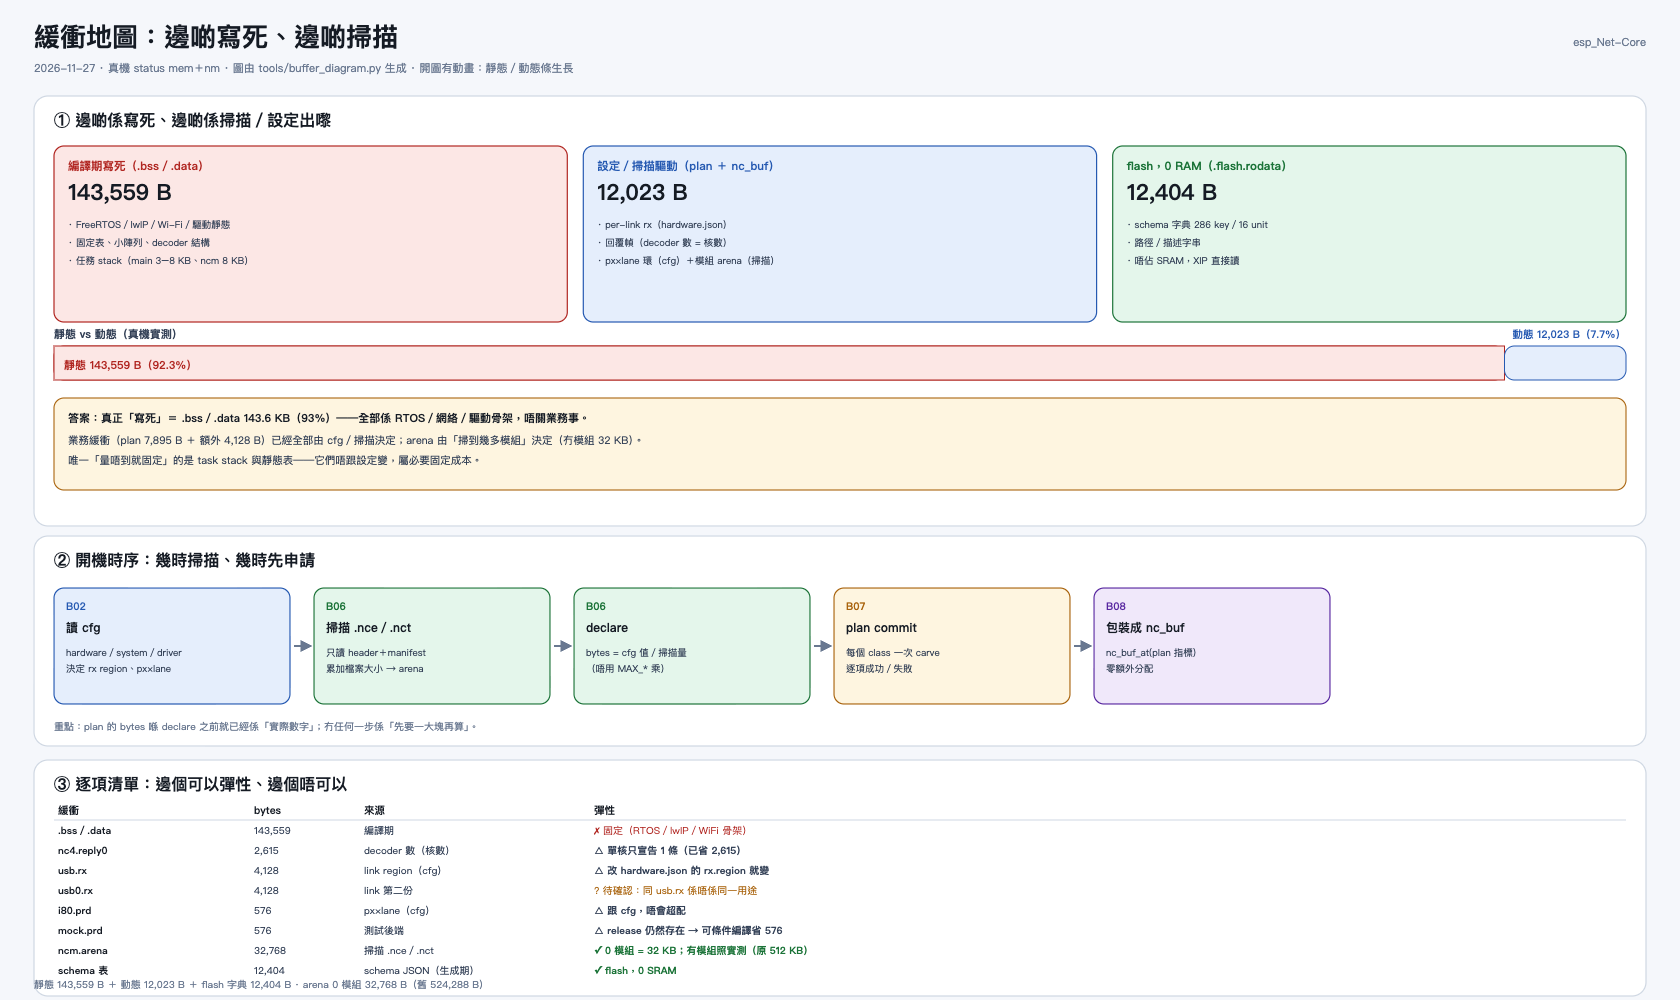
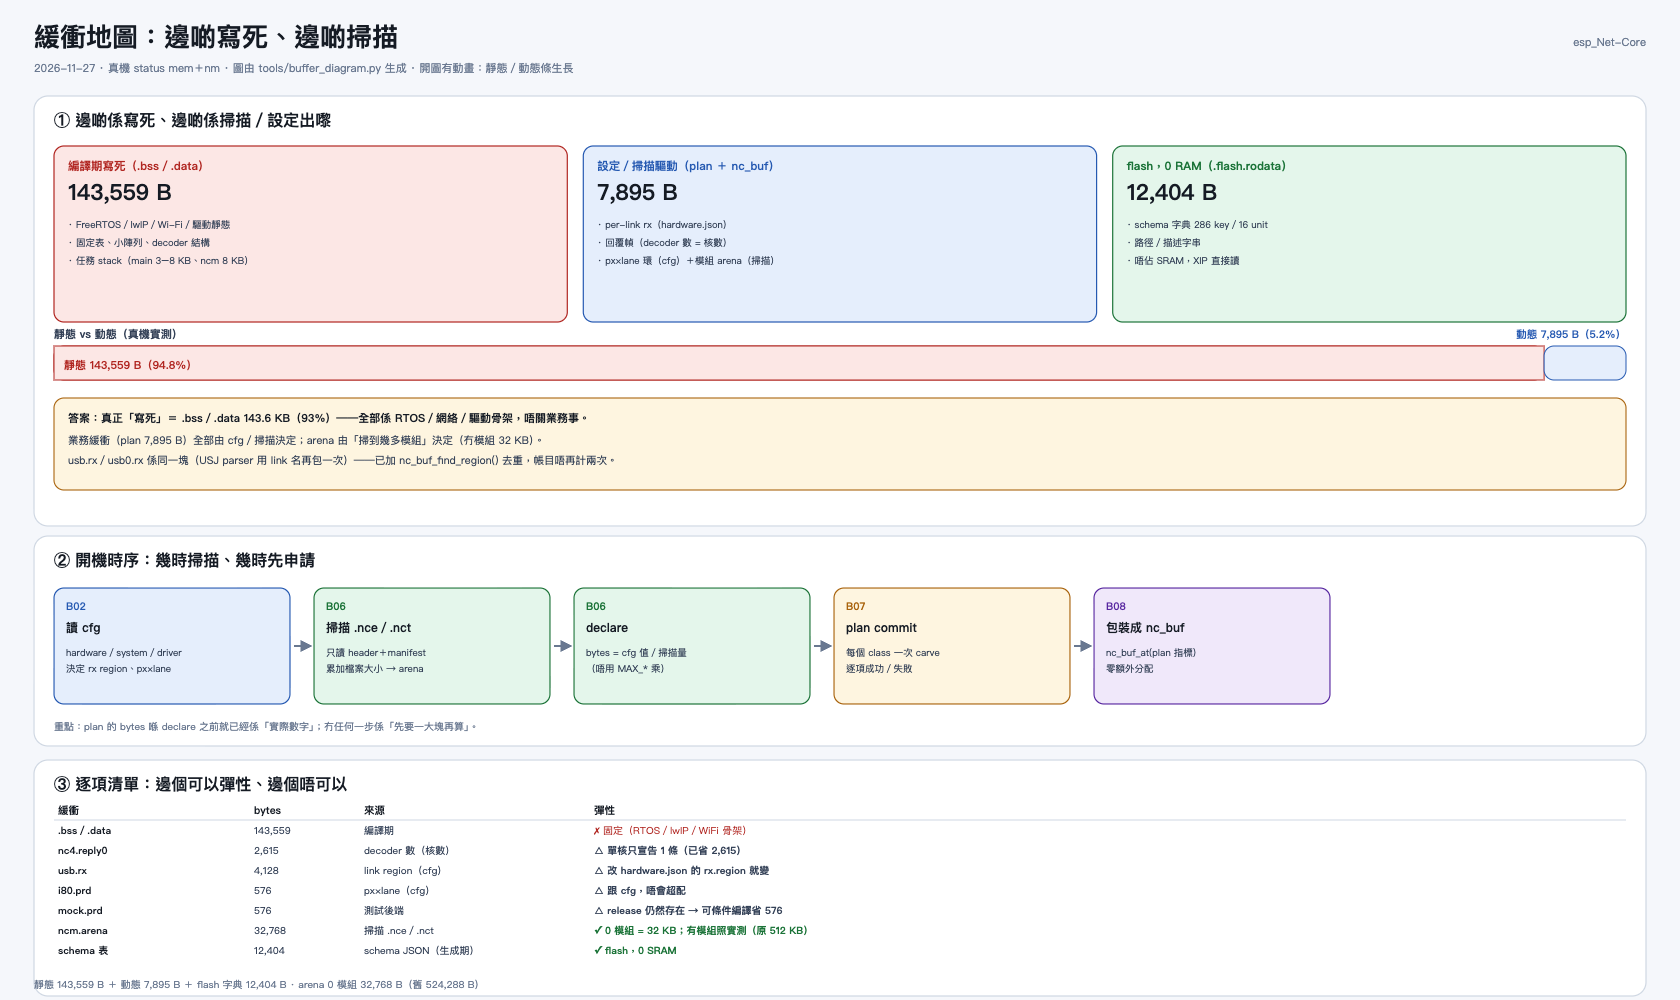
fix(mem): usb.rx／usb0.rx 係同一塊記憶體——去重登記，動態總量修正為 7,895 B
用家質疑「usb.rx 同 usb0.rx 各 4,128 B」是否真係兩份，要求追查（可能只係登記問題，
亦可能係為 P4 多介面預留）。

追蹤結果：
- plan "usb.rx"（slot=region, n=1, STREAM）→ task manager nc_buf_at("usb.rx", plan 指標)
- USJ bus：nc4_parser_create_in(s_nc4_rx_region, …) → nc_buf_at("<link>.rx"="usb0.rx",
  同一個 region) —— 兩個 wrapper 指向同一指標，**唔係兩份記憶體**。
- OTG（CDC）走 rx_buf → create_buf 沿用 usb.rx，所以只有 USJ 會重複登記。
- 亦唔係 P4 多介面預留：rx_region 係每條 link 一個，多介面會有多條獨立 link。

修正：新增 nc_buf_find_region(region, bytes)；nc4_parser_create_in() 先找既有 wrapper，
搵唔到才 nc_buf_at()，避免同一塊記憶體兩個名。

上板實測（SuperMini、release）：
- nc_buf 5 條 12,023 B → **4 條 7,895 B**（＝plan int 5,280＋psram 2,615 完全對上）
- plan 不變；state hit=1／n=4／apply=4 不變
- 即「動態」實際佔 7,895 B（5.2%），之前 12,023 B 係帳目重複

文件：buffer-map.svg/PNG 數字改正；status §7.301（並修正 §7.300 的誤報）、
buffers.md §12.4；host 25/25。

diff --git a/tools/buffer_diagram.py b/tools/buffer_diagram.py
@@ -17,7 +17,9 @@ PLAN = [("nc4.reply0", 2615, "核數（1 decoder）", "psram"),
         ("usb.rx", 4128, "link 的 region（cfg）", "int"),
         ("i80.prd", 576, "px×lane（cfg）", "int"),
         ("mock.prd", 576, "測試後端", "int")]
-EXTRA = [("usb0.rx", 4128, "link 第二份（待確認）")]
+# 2026-11-27 查清：usb0.rx 同 usb.rx 係**同一塊記憶體**（USJ parser 用 link 名再包一次），
+# 唔係第二份；已用 nc_buf_find_region() 去重，帳目唔再重複計。
+EXTRA: list = []
 ARENA_ZERO = 32_768          # 冇模組時的 ncm.arena（有模組 = 掃描量）
 ARENA_OLD = 512 * 1024
 SCHEMA_FLASH = 12_404
@@ -94,8 +96,8 @@ def panel1(y: int) -> str:
     # 結論
     s.append(rect(x + 20, by + 52, bw, 92, F_AMBER, S_AMBER, 1.1, 10))
     s.append(text(x + 34, by + 76, "答案：真正「寫死」＝ .bss／.data 143.6 KB（93%）——全部係 RTOS／網絡／驅動骨架，唔關業務事。", 11, INK, 700))
-    s.append(text(x + 34, by + 98, "業務緩衝（plan 7,895 B ＋ 額外 4,128 B）已經全部由 cfg／掃描決定；arena 由「掃到幾多模組」決定（冇模組 32 KB）。", 10.5, INK2))
-    s.append(text(x + 34, by + 118, "唯一「量唔到就固定」的是 task stack 與靜態表——它們唔跟設定變，屬必要固定成本。", 10.5, INK2))
+    s.append(text(x + 34, by + 98, "業務緩衝（plan 7,895 B）全部由 cfg／掃描決定；arena 由「掃到幾多模組」決定（冇模組 32 KB）。", 10.5, INK2))
+    s.append(text(x + 34, by + 118, "usb.rx／usb0.rx 係同一塊（USJ parser 用 link 名再包一次）——已加 nc_buf_find_region() 去重，帳目唔再計兩次。", 10.5, INK2))
     return "".join(s)
 
 
@@ -137,7 +139,6 @@ def panel3(y: int) -> str:
             (".bss／.data", fmt(STATIC), "編譯期", "✗ 固定（RTOS／lwIP／WiFi 骨架）"),
             ("nc4.reply0", "2,615", "decoder 數（核數）", "△ 單核只宣告 1 條（已省 2,615）"),
             ("usb.rx", "4,128", "link region（cfg）", "△ 改 hardware.json 的 rx.region 就變"),
-            ("usb0.rx", "4,128", "link 第二份", "? 待確認：同 usb.rx 係唔係同一用途"),
             ("i80.prd", "576", "px×lane（cfg）", "△ 跟 cfg，唔會超配"),
             ("mock.prd", "576", "測試後端", "△ release 仍然存在 → 可條件編譯省 576"),
             ("ncm.arena", "32,768", "掃描 .nce／.nct", "✓ 0 模組 = 32 KB；有模組照實測（原 512 KB）"),

diff --git a/firmware/components/sys/nc4/nc4.c b/firmware/components/sys/nc4/nc4.c
@@ -295,8 +295,12 @@ nc4_parser_t *nc4_parser_create_in(void *region, size_t region_bytes,
     char name[NC4_LINK_NAME_MAX + 4];
     snprintf(name, sizeof(name), "%.*s.rx", NC4_LINK_NAME_MAX, source ? source : "p");
     // 外部區域（plan 給的）：owns=false，release 只會除名，唔會 free 區域
-    p->ring = nc_buf_at(name, region, region_bytes, NC_BUF_SRAM,
-                        (uint32_t)region_bytes, 1, NC_BUF_F_STREAM | NC_BUF_F_RUNTIME);
+    // 同一塊 region 可能已經由 plan／管理器包裝過（usb.rx）：重用，唔重複登記。
+    p->ring = nc_buf_find_region(region, region_bytes);
+    if (p->ring == NULL) {
+        p->ring = nc_buf_at(name, region, region_bytes, NC_BUF_SRAM,
+                            (uint32_t)region_bytes, 1, NC_BUF_F_STREAM | NC_BUF_F_RUNTIME);
+    }
     if (p->ring == NULL) {
         free(p);
         return NULL;

diff --git a/firmware/components/sys/mem/include/nc_buf.h b/firmware/components/sys/mem/include/nc_buf.h
@@ -70,6 +70,11 @@ nc_buf_t *nc_buf_create(const char *name, nc_buf_where_t where,
                         uint32_t slot_bytes, uint16_t n, uint32_t flags);
 
 // 在「外部已配好的區域」上建立（plan／arena 給的記憶體走這條）
+// 同一個外部 region 已經有人包裝過就回傳既有 wrapper（唔會重複登記）。
+// 為什麼要有：USJ 路徑的 parser 會用 link 名再包一次 plan 給的 region；
+// 冇呢個查找就會出現「同一塊記憶體兩個名」（usb.rx／usb0.rx），帳目多算一倍。
+nc_buf_t *nc_buf_find_region(const void *region, size_t region_bytes);
+
 nc_buf_t *nc_buf_at(const char *name, void *region, size_t region_bytes,
                     nc_buf_where_t where, uint32_t slot_bytes, uint16_t n,
                     uint32_t flags);

diff --git a/firmware/components/sys/mem/nc_buf.c b/firmware/components/sys/mem/nc_buf.c
@@ -350,6 +350,23 @@ nc_buf_t *nc_buf_create(const char *name, nc_buf_where_t where,
     return b;
 }
 
+nc_buf_t *nc_buf_find_region(const void *region, size_t region_bytes)
+{
+    if (region == NULL) {
+        return NULL;
+    }
+    for (int i = 0; i < NC_BUF_MAX; i++) {
+        nc_buf_t *b = s_reg[i];
+        if (b == NULL) {
+            continue;
+        }
+        if (nc_buf_raw(b, 0) == region && nc_buf_slot_bytes(b) == region_bytes) {
+            return b;
+        }
+    }
+    return NULL;
+}
+
 nc_buf_t *nc_buf_at(const char *name, void *region, size_t region_bytes,
                     nc_buf_where_t where, uint32_t slot_bytes, uint16_t n,
                     uint32_t flags)

diff --git a/docs/00_pm/status.md b/docs/00_pm/status.md
@@ -10440,19 +10440,54 @@ NULL → MIN、2 個 5,000 B → 合計＋2 KB 且 32 對齊、超大 → MAX。
 |---|---:|---|
 | 靜態 `.bss`＋`.data` | **143,559 B**（bss 104,272／data 39,287） | 編譯期（RTOS／lwIP／Wi-Fi／驅動骨架） |
 | 動態 plan | **7,895 B**（reply0 2,615 psram；usb.rx 4,128＋i80.prd 576＋mock.prd 576 int） | cfg／核數／px×lane |
-| 額外 nc_buf | **4,128 B**（`usb0.rx`） | link（見發現 ①） |
+| 額外 nc_buf | ~~4,128 B（`usb0.rx`）~~ → **0**（§7.301 查清：同一塊記憶體重複登記） | — |
 | flash 字典 | **12,404 B** | `.flash.rodata`，0 SRAM |
 
 靜態佔 92.3%、動態 7.7%——所以「預留一大塊」的印象主要來自 RTOS 骨架，唔關業務緩衝事。
 
 **四個發現**：
 
-1. **`usb.rx` 同 `usb0.rx` 各 4,128 B**：前者係 plan 切出來的（`nc_buf_at` 包裝、零額外分配），
-   後者係 `nc4_parser_create()` 自己建的第二個 ring（名字 `<link>.rx`）。
-   兩者同時存在 → **疑似同一條 USB 線有兩個 parser 環（~4 KB 冗餘）**，待確認用途後合併。
+1. **`usb.rx` 同 `usb0.rx`**：§7.301 查清係**同一塊記憶體**（USJ parser 用 link 名再包一次），
+   只係重複登記、帳目多算 4,128 B；已加 `nc_buf_find_region()` 去重，**冇 4 KB 浪費**。
 2. **`mock.prd` 576 B 在 release 仍然建立**：測試後端唔應該出現在 production；可條件編譯省 576 B。
 3. **`ncm.arena` 已經係掃描量**（0 模組 32,768 B，原 512 KB）——§7.299 生效。
 4. **`nc4.reply0` 2,615 B 係按 decoder 數宣告**：單核只 1 條（雙核才 2 條），已經係彈性做法。
 
 **結論**：真正「寫死」只有 RTOS／網絡骨架 143.6 KB；業務緩衝（12 KB）全部可以由 cfg／掃描
 決定，而且 plan 的 bytes 喺 declare 之前就係實數，冇「先要一大塊再算」的步驟。
+
+---
+
+### 7.301 2026-11-27（追查 usb.rx／usb0.rx：同一塊記憶體重複登記，已修）
+
+**用家要求**：確認 `usb.rx` 同 `usb0.rx` 係唔係真係兩份（佢懷疑只係「兩條模組用同一條線」的登記問題，
+亦可能係為 P4 多介面做準備）。
+
+**追蹤結果（源碼＋上板）**：
+
+```
+task_nc4_declare()：plan "usb.rx"（slot = region, n=1, STREAM）
+   → task manager: nc_buf_at("usb.rx", plan 指標)        ← 第 1 個 wrapper
+   → USJ bus: nc4_parser_create_in(s_nc4_rx_region, ...)
+        → nc_buf_at("<link>.rx" = "usb0.rx", 同一個 region) ← 第 2 個 wrapper（同一指標）
+```
+
+- **唔係兩份記憶體**：兩個 wrapper 指向同一個 `region`；`nc_buf` 帳目因此重複計 4,128 B。
+- OTG（CDC）路徑傳 `rx_buf`（既有 wrapper）→ `create_buf` 沿用 "usb.rx"，所以 **OTG 冇** 重複登記；
+  只有 USJ（`create_in`）會出現。
+- 亦唔係「P4 多介面預留」：`rx_region` 係每條 link 一個，P4 多介面會有多條 link（各自獨立），
+  唔會共用一個 region；今次純粹係同一 region 兩個名。
+
+**修正**：新增 `nc_buf_find_region(region, bytes)`；`nc4_parser_create_in()` 先找既有 wrapper，
+找到就重用，搵唔到才 `nc_buf_at()`。
+
+**上板實測（SuperMini、release）**：
+
+| 項目 | 之前 | 之後 |
+|---|---:|---:|
+| `nc_buf` 條數 | 5 | **4** |
+| `nc_buf` 合計 | 12,023 B | **7,895 B**（＝ plan bytes 完全對上） |
+| plan | int 5,280＋psram 2,615 | 不變 |
+| state | hit=1／n=4／apply=4 | 不變 |
+
+所以「動態」真實總量係 **7,895 B**（5.2%），唔係 12,023 B。圖 [`buffer-map.svg`](buffer-map.svg) 已更新。

diff --git a/AGENTS.md b/AGENTS.md
@@ -1063,6 +1063,7 @@ commit message 說明。
 | 2026-11-27 | **state 地基三改＋硬件覆蓋率**：key id u16→u32（8/8/8/8，PIN 48／P4 55 放得落）；`src_hash` 由 JSON bytes 改成**值集** CRC（改註解唔再清回寫值）；hit 只看值（hash 降級診斷）；新增 `nc_state_bind_u32/i32()`（熱路徑直接位址）。上板：舊 blob `mism=2` 自動重建、`bytes 48→50`、兩次開機 `hit=1`。新增 [`hw-coverage.md`](docs/03_notes/hw-coverage.md)：三顆晶片真實資源 vs 380-key 大表（4 個 unit 上限寫錯、S3 ETH rmii 無效、缺 9 類資源 +185 key）。status §7.291 | lead（AI） |
 | 2026-11-27 | **狀態系統三合一圖（帶動畫）**：`tools/state_diagram.py` → [`state-flow.svg`](docs/00_pm/state-flow.svg)（緩存 18 KB→1.7 KB 前後對比／開機次序 B02→state→apply_to_cfg→B05→B08／路線圖 S0–S6＋四個不變量）；PNG 截圖 [`state-flow-2026-11-27.png`](docs/assets/state-flow-2026-11-27.png)。status §7.292 | lead（AI） |
 | 2026-11-27 | **省 SRAM：只用一次的 768 B 搬 PSRAM＋store 64→96 筆**：`s_recs` 改 `heap_caps_malloc(MALLOC_CAP_SPIRAM)`（無 PSRAM 板 compile-time 回 internal；失敗明示跳過）；`NC_STATE_STORE_MAX` 64→96（Matrix 典型 70 筆）。`nm`：`s_store` 772→1,156 B、`s_recs` 768→4 B → **state 佔 SRAM 2,820→1,160 B（−59%）**；上板 `h_ps` −760 B、`hit=1`／`bad=0`。字典表 900 B 仍在 flash（0 RAM，唔使搬）。status §7.294 | lead（AI） |
+| 2026-11-27 | **查清 usb.rx／usb0.rx**：同一塊 region 被 USJ parser 用 link 名再包一次（plan→`nc_buf_at`、`create_in`→`nc_buf_at` 同指標），唔係兩份記憶體、亦唔係 P4 多介面預留。加 `nc_buf_find_region()` 去重 → `nc_buf` 5 條 12,023 B 變 **4 條 7,895 B**（＝plan bytes）；動態實際佔 5.2%。status §7.301、buffers.md §12.4 | lead（AI） |
 | 2026-11-27 | **緩衝地圖＋調查**：`tools/buffer_diagram.py` → [`buffer-map.svg`](docs/00_pm/buffer-map.svg)；實測靜態 143,559 B（92.3%）／plan 7,895 B／額外 usb0.rx 4,128 B／flash 字典 12,404 B。四個發現：`usb.rx` 與 `usb0.rx` 各 4,128（疑似重複 parser 環）、`mock.prd` 576 B 仍在 release、arena 已係掃描量、reply0 跟核數。status §7.300 | lead（AI） |
 | 2026-11-27 | **模組 arena 由掃描量決定**：`nc_mod_scan_t.bytes`（掃描時累加檔案大小）＋`nc_mod_arena_bytes()` = clamp(合計＋N×1 KB, 32 KB, 512 KB)；`ncm.arena` 唔再無條件 512 KB。tests 映像實測 32,768 B（原 524,288 B，省 480 KB PSRAM）。status §7.299 | lead（AI） |
 | 2026-11-27 | **靜態／動態緩衝分界**：`status mem` 加 `static:{bss,data}`（linker symbol 實量）；查清 plan 一直是「宣告→加總→每 class 一次 carve」的動態層（SuperMini：static bss 104,272＋data 39,287 B；plan int 5,280／psram 2,615；buf 12,023 B）。分界規則寫入 `buffers.md` §12。status §7.298 | lead（AI） |

diff --git a/docs/03_notes/buffers.md b/docs/03_notes/buffers.md
@@ -750,5 +750,9 @@ B06 掃描 /data/pixel/effects + /data/tasks（.nce／.nct）
 ### 12.4 緩衝地圖（2026-11-27）
 
 [`docs/00_pm/buffer-map.svg`](../00_pm/buffer-map.svg)（`tools/buffer_diagram.py`）：實測
-靜態 143,559 B／動態 7,895 B（plan）＋4,128 B（usb0.rx）／flash 字典 12,404 B；
-逐項標明來源（編譯期／cfg／掃描）同彈性。四個待處理見 status §7.300。
+靜態 143,559 B（94.8%）／動態 **7,895 B（5.2%）**／flash 字典 12,404 B；逐項標明來源
+（編譯期／cfg／掃描）同彈性。
+
+**同一個 region 唔重複登記**（2026-11-27）：`nc_buf_find_region()` 會回傳既有 wrapper；
+USJ parser 以前用 link 名再包一次 → `usb.rx`／`usb0.rx` 兩個名、帳目多算 4,128 B
+（見 status §7.301）。
